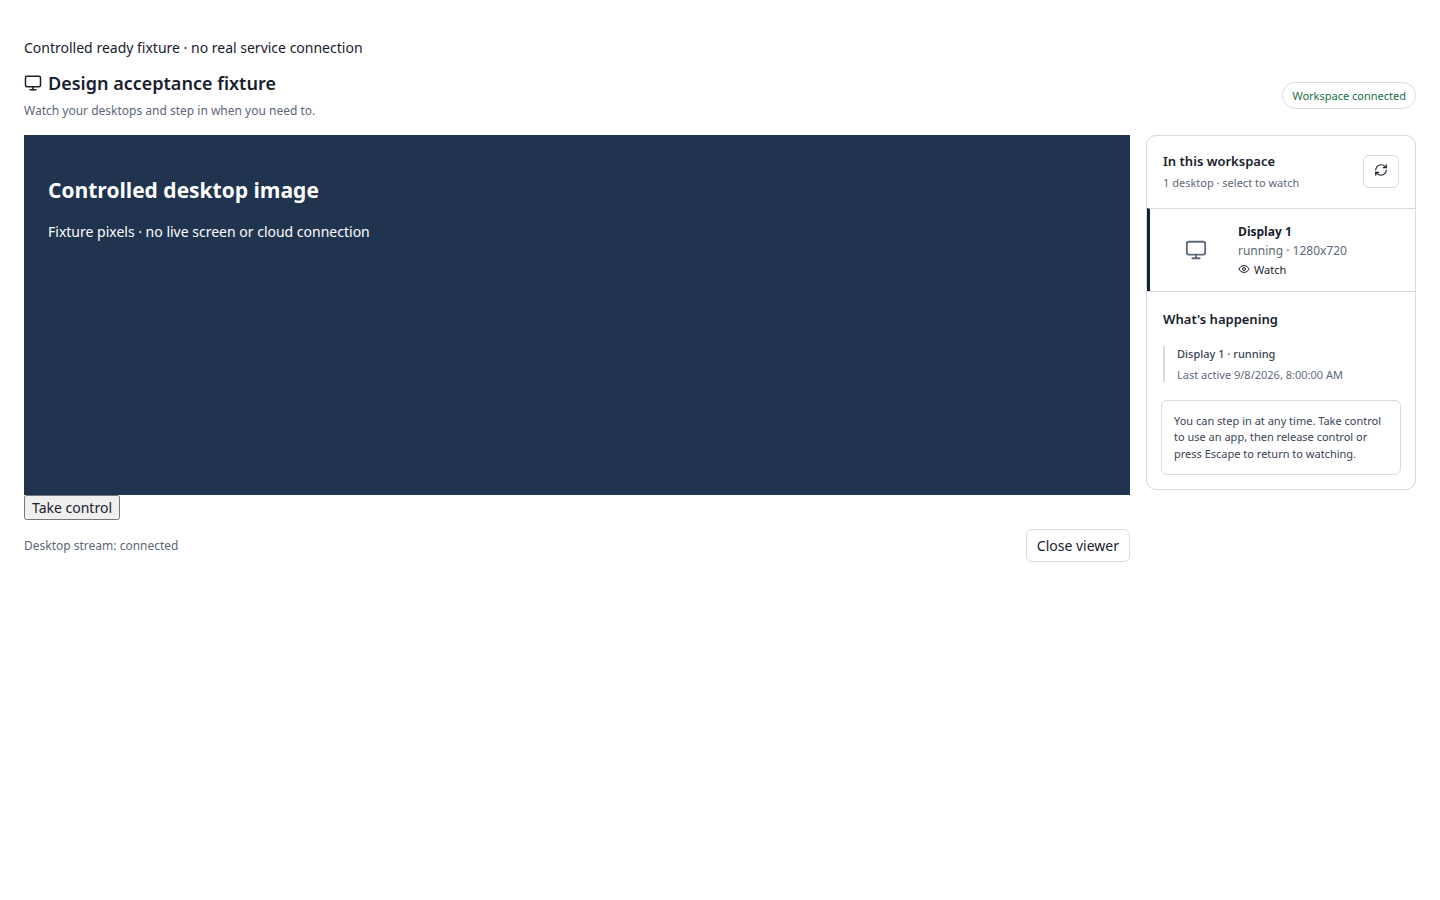
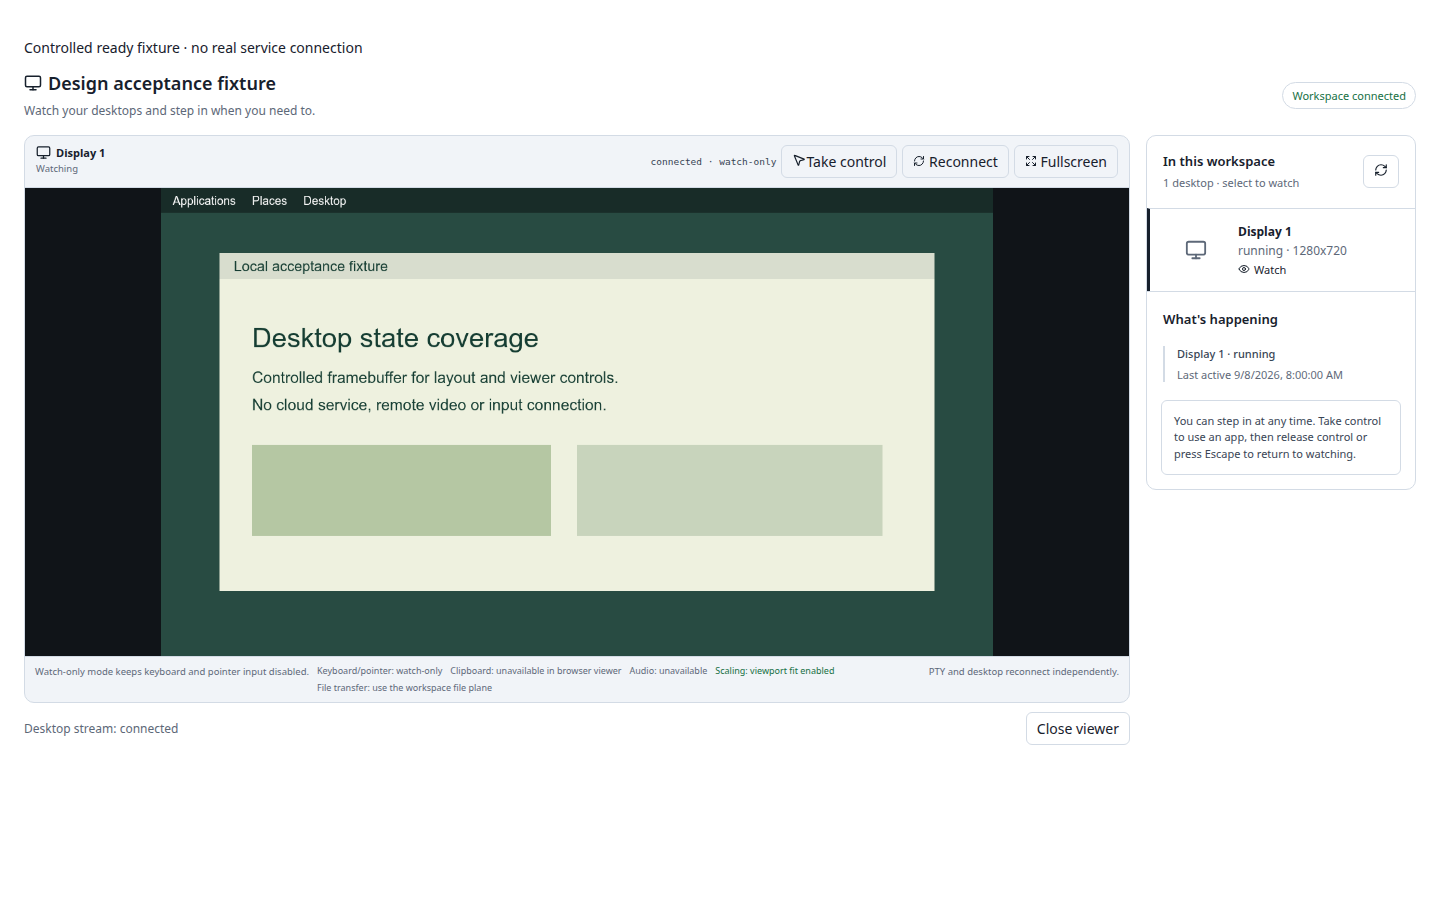
sync(docs,operator,operator-core,scripts): 12 files, +282/-111 [skip ci]
chore(git-sync): auto-commit papercusp [skip ci]

diff --git a/packages/operator-core/lib/agent-tools/work_items/spec-test-adequacy-gate.test.ts b/packages/operator-core/lib/agent-tools/work_items/spec-test-adequacy-gate.test.ts
@@ -119,10 +119,30 @@ function listedEvidence(over: Partial<ListedEvidence> = {}): ListedEvidence {
   };
 }
 
+/** The evaluator requires a successful ledger-backed negative control for falsifiability. */
+function counterexampleEvidence(over: Partial<ListedEvidence> = {}): ListedEvidence {
+  return listedEvidence({
+    id: 2,
+    evidenceKind: 'counterexample',
+    evidenceRef: 'counterexample:reconnect',
+    details: {
+      adequacy: {
+        ...((evidence().details.adequacy ?? {}) as Record<string, unknown>),
+        outcome: 'killed',
+      },
+    },
+    ...over,
+  });
+}
+
+function passingEvidence(): ListedEvidence[] {
+  return [listedEvidence(), counterexampleEvidence()];
+}
+
 function matchingCard(over: Partial<ScorecardRow> = {}): ScorecardRow {
   const result = evaluateSpecTestAdequacy({
     clause: clause(),
-    evidence: [evidence()],
+    evidence: passingEvidence(),
     classRef: 'plan-class-feature-ship',
   });
   return {
@@ -179,7 +199,10 @@ function planStatuses(byPlan: Record<string, string> = {}) {
 function passingDeps() {
   const listClauses = vi.fn<NonNullable<GateDeps['listClauses']>>(async () => [clause()]);
   const listEdges = vi.fn<NonNullable<GateDeps['listEdges']>>(async () => []);
-  const listEvidence = vi.fn<NonNullable<GateDeps['listEvidence']>>(async () => [listedEvidence()]);
+  const listEvidence = vi.fn<NonNullable<GateDeps['listEvidence']>>(async (options) => {
+    const rows = passingEvidence();
+    return options.evidenceRefs ? rows.filter((row) => options.evidenceRefs!.includes(row.evidenceRef)) : rows;
+  });
   const listCards = vi.fn<NonNullable<GateDeps['listCards']>>(async () => [matchingCard()]);
   const listPlanStatuses = planStatuses();
   return {
@@ -320,26 +343,32 @@ describe('specTestAdequacyCompletionGate', () => {
 
   it('accepts the exact current cohort without historical unknown bindings vetoing it', async () => {
     const deps = passingDeps();
-    deps.listEvidence.mockResolvedValue([
-      listedEvidence({
-        id: 1,
-        evidenceRef: 'test:historical',
-        currentness: {
-          ...evidence().currentness,
-          overall: 'unknown',
-          dimensions: {
-            ...evidence().currentness.dimensions,
-            source: 'unknown',
-            test: 'unknown',
-          },
-          unknownReasons: ['source_fingerprint_absent', 'test_fingerprint_absent'],
+    const historical = listedEvidence({
+      id: 1,
+      evidenceRef: 'test:historical',
+      currentness: {
+        ...evidence().currentness,
+        overall: 'unknown',
+        dimensions: {
+          ...evidence().currentness.dimensions,
+          source: 'unknown',
+          test: 'unknown',
         },
-      }),
-      listedEvidence({ id: 2 }),
-    ]);
-
+        unknownReasons: ['source_fingerprint_absent', 'test_fingerprint_absent'],
+      },
+    });
+    const current = listedEvidence({ id: 2 });
+    const counterexample = counterexampleEvidence({ id: 3 });
+    deps.listEvidence.mockImplementation(async (options) => {
+      const rows = [historical, current, counterexample];
+      return options.evidenceRefs ? rows.filter((row) => options.evidenceRefs!.includes(row.evidenceRef)) : rows;
+    });
+    const attestation = {
+      ...ATTESTATION,
+      evidenceRefs: [current.evidenceRef, counterexample.evidenceRef],
+    };
     const result = await specTestAdequacyCompletionGate(
-      { workItem: WORK_ITEM, attestation: ATTESTATION },
+      { workItem: WORK_ITEM, attestation },
       deps,
     );
 
@@ -479,6 +508,17 @@ describe('specTestAdequacyCompletionGate', () => {
           staleReasons: ['test_fingerprint_mismatch'],
         },
       }),
+      counterexampleEvidence({
+        currentness: {
+          ...evidence().currentness,
+          overall: 'stale',
+          dimensions: {
+            ...evidence().currentness.dimensions,
+            test: 'stale',
+          },
+          staleReasons: ['test_fingerprint_mismatch'],
+        },
+      }),
     ]);
 
     const result = await specTestAdequacyCompletionGate(
@@ -494,6 +534,17 @@ describe('specTestAdequacyCompletionGate', () => {
     const deps = passingDeps();
     deps.listEvidence.mockResolvedValue([
       listedEvidence({
+        currentness: {
+          ...evidence().currentness,
+          overall: 'unknown',
+          dimensions: {
+            ...evidence().currentness.dimensions,
+            test: 'unknown',
+          },
+          unknownReasons: ['test-current-fingerprint-not-supplied'],
+        },
+      }),
+      counterexampleEvidence({
         currentness: {
           ...evidence().currentness,
           overall: 'unknown',
@@ -523,6 +574,17 @@ describe('specTestAdequacyCompletionGate', () => {
     const deps = passingDeps();
     deps.listEvidence.mockResolvedValue([
       listedEvidence({
+        currentness: {
+          ...evidence().currentness,
+          overall: 'stale',
+          dimensions: {
+            ...evidence().currentness.dimensions,
+            test: 'stale',
+          },
+          staleReasons: ['test_fingerprint_mismatch'],
+        },
+      }),
+      counterexampleEvidence({
         currentness: {
           ...evidence().currentness,
           overall: 'stale',
@@ -696,17 +758,18 @@ describe('specTestAdequacyCompletionGate — universal contract resolution (P-01
 
   it('forwards an exact evidence selection so superseded bindings remain historical without poisoning completion', async () => {
     const deps = passingDeps();
+    const evidenceRefs = ['test:reconnect', 'counterexample:reconnect'];
     const result = await specTestAdequacyCompletionGate(
       {
         workItem: { ...WORK_ITEM, kind: 'bug' },
-        attestation: { ...ATTESTATION, evidenceRefs: ['test:reconnect'] },
+        attestation: { ...ATTESTATION, evidenceRefs },
       },
       deps,
     );
 
     expect(result).toMatchObject({ ok: true, applicable: true, checked: ['SPEC-003-01@1'] });
     expect(deps.listEvidence).toHaveBeenCalledWith(
-      expect.objectContaining({ evidenceRefs: ['test:reconnect'] }),
+      expect.objectContaining({ evidenceRefs }),
     );
   });
 

diff --git a/apps/operator/e2e/__fixtures__/desktop-render-matrix.tsx b/apps/operator/e2e/__fixtures__/desktop-render-matrix.tsx
@@ -1,14 +1,33 @@
 import React, { useState } from 'react';
 import { createRoot } from 'react-dom/client';
 import { HostedDesktopWorkspace, type DesktopSelection } from '../../app/cloud-workspaces/HostedDesktopWorkspace';
+import type { HostedDesktopViewerState } from '../../app/cloud-workspaces/HostedDesktopViewer';
 
-// Component/state evidence only. The test server substitutes the viewer module;
-// it never loads a cloud connector, requests credentials or opens a real socket.
+// Component/state evidence only. Keep the actual viewer and substitute only its
+// transport and RFB boundary, as the existing viewer unit tests do.
+class LocalSocket extends EventTarget {
+  static OPEN = 1; static CLOSED = 3; static CONNECTING = 0; static CLOSING = 2;
+  readyState = LocalSocket.OPEN;
+  binaryType = 'arraybuffer';
+  constructor(readonly url: string) { super(); queueMicrotask(() => this.dispatchEvent(new Event('open'))); }
+  send() {}
+  close(code = 1000, reason = '') { this.readyState = LocalSocket.CLOSED; this.dispatchEvent(new CloseEvent('close', { code, reason })); }
+}
+window.WebSocket = LocalSocket as unknown as typeof WebSocket;
+const originalFetch = window.fetch.bind(window);
+window.fetch = (input, init) => {
+  const url = typeof input === 'string' ? input : input instanceof URL ? input.href : input.url;
+  if (new URL(url, location.href).pathname === '/api/hosted/workspaces/fixture-workspace/connectors/session-ticket') {
+    return Promise.resolve(new Response(JSON.stringify({ ok: true, ticket: `ht_${'a'.repeat(43)}` }), { headers: { 'content-type': 'application/json' } }));
+  }
+  return originalFetch(input, init);
+};
 const state = new URL(location.href).searchParams.get('state') ?? 'disconnected';
 const theme = new URL(location.href).searchParams.get('theme') ?? 'light';
 document.documentElement.dataset.theme = theme;
 document.documentElement.style.colorScheme = theme;
 function Fixture() {
+  const [viewerState, setViewerState] = useState<HostedDesktopViewerState | null>(null);
   const [selected, setSelected] = useState<DesktopSelection | null>(
     state === 'ready' ? { desktopSessionId: 'fixture-display-1', mode: 'watch' } : null,
   );
@@ -22,8 +41,8 @@ function Fixture() {
         state: 'running', geometry: '1280x720', lastActiveAt: '2026-09-08T12:00:00Z' }] : []}
       rosterState={state === 'loading' ? 'loading' : state === 'error' ? 'error' : 'ready'}
       rosterError={state === 'error' ? 'Controlled roster error' : null} thumbnails={{}}
-      selectedDesktop={selected} viewerState={state === 'ready' ? 'connected' : null}
-      onSelectDesktop={setSelected} onViewerStateChange={() => {}}
+      selectedDesktop={selected} viewerState={viewerState}
+      onSelectDesktop={setSelected} onViewerStateChange={setViewerState}
     />
   </main>;
 }

diff --git a/apps/operator/e2e/__fixtures__/desktop-render-rfb.ts b/apps/operator/e2e/__fixtures__/desktop-render-rfb.ts
@@ -1,0 +1,34 @@
+/** Deterministic local framebuffer for actual HostedDesktopViewer chrome.
+ * No remote server or input transport is exercised by this fixture.
+ */
+export default class FixtureRfb {
+  viewOnly = true; scaleViewport = true; clipViewport = true;
+  resizeSession = false; focusOnClick = false; background = '';
+  readonly canvas: HTMLCanvasElement;
+  constructor(element: HTMLElement) {
+    this.canvas = document.createElement('canvas');
+    this.canvas.width = 1280; this.canvas.height = 720;
+    this.canvas.style.cssText = 'display:block;width:100%;height:auto;max-height:100%;object-fit:contain';
+    this.canvas.dataset.readyFixture = 'true';
+    this.canvas.setAttribute('aria-label', 'Controlled local framebuffer; no live connection');
+    const ctx = this.canvas.getContext('2d')!;
+    ctx.fillStyle = '#284b42'; ctx.fillRect(0, 0, 1280, 720);
+    ctx.fillStyle = '#182c28'; ctx.fillRect(0, 0, 1280, 38);
+    ctx.fillStyle = '#ffffff'; ctx.font = '18px sans-serif';
+    ctx.fillText('Applications     Places     Desktop', 18, 26);
+    ctx.fillStyle = '#eef1df'; ctx.fillRect(90, 100, 1100, 520);
+    ctx.fillStyle = '#d8ddce'; ctx.fillRect(90, 100, 1100, 40);
+    ctx.fillStyle = '#153d32'; ctx.font = '22px sans-serif';
+    ctx.fillText('Local acceptance fixture', 112, 128);
+    ctx.font = '42px sans-serif'; ctx.fillText('Desktop state coverage', 140, 245);
+    ctx.font = '24px sans-serif'; ctx.fillText('Controlled framebuffer for layout and viewer controls.', 140, 300);
+    ctx.fillText('No cloud service, remote video or input connection.', 140, 342);
+    ctx.fillStyle = '#b5c7a3'; ctx.fillRect(140, 395, 460, 140);
+    ctx.fillStyle = '#c8d4bc'; ctx.fillRect(640, 395, 470, 140);
+    element.append(this.canvas);
+  }
+  addEventListener(type: string, listener: () => void) {
+    if (type === 'connect') queueMicrotask(listener);
+  }
+  disconnect() { this.canvas.remove(); }
+}

diff --git a/apps/operator/lib/psu-launcher.test.ts b/apps/operator/lib/psu-launcher.test.ts
@@ -17,6 +17,7 @@ import {
 import { hostname, tmpdir } from "node:os";
 import { basename, join } from "node:path";
 import { parse as parseYaml, stringify as stringifyYaml } from "yaml";
+import { PSU_REQUEST_TIMEOUT_MS } from "./mcp-proxy/budgets.mjs";
 import {
   codexContextConfigArgs,
   codexContextConfigToml,
@@ -10172,6 +10173,36 @@ describe("WI-2141892 — Claude resume local-liveness evidence", () => {
 });
 
 describe("reportSessionResumed (atomic adv-row resume claim — fail closed)", () => {
+  it("uses the shared proxy-derived request budget by default", async () => {
+    const timeoutValues: number[] = [];
+    const timeoutSpy = vi
+      .spyOn(AbortSignal, "timeout")
+      .mockImplementation((ms) => {
+        timeoutValues.push(ms);
+        return new AbortController().signal;
+      });
+
+    try {
+      await expect(
+        reportSessionResumed(42, {
+          fetchImpl: async () =>
+            Response.json({
+              ok: true,
+              status: "acquired",
+              acquired: true,
+              reactivated: true,
+            }),
+          operatorUrl: "http://op:1",
+          resumeClaimKey: "resume-shared-budget",
+        }),
+      ).resolves.toMatchObject({ claimed: true, status: "acquired" });
+    } finally {
+      timeoutSpy.mockRestore();
+    }
+
+    expect(timeoutValues).toEqual([PSU_REQUEST_TIMEOUT_MS]);
+  });
+
   it("POSTs the row id to bootstrap-su/session-resumed with the bearer", async () => {
     const calls = [];
     const fetchImpl = async (url, opts) => {
